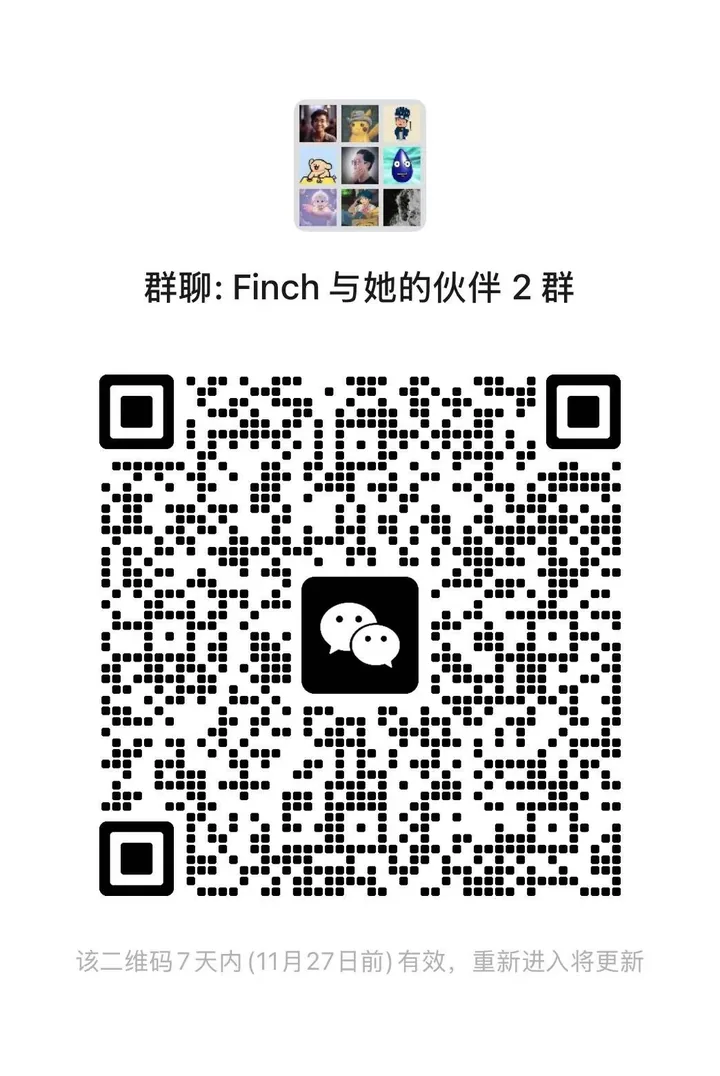
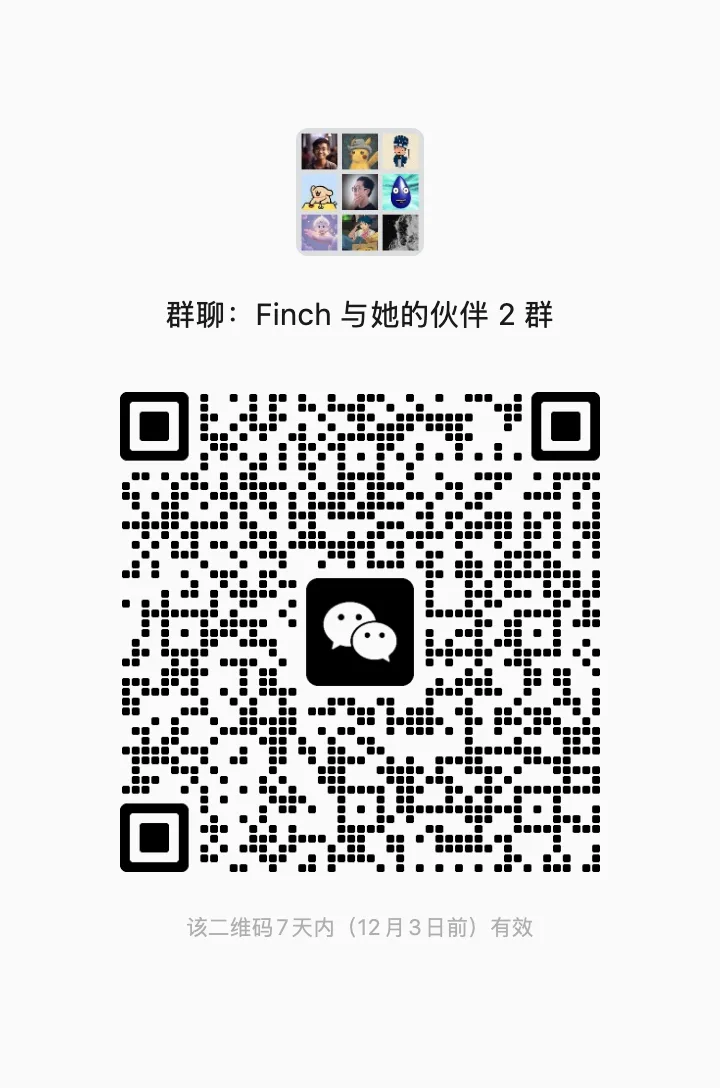
chore: 更新微信群二维码（有效期至 12 月 3 日）
- 替换 2 群群码，旧码 11-27 失效
- README 群名更正为「Finch 与她的小伙伴 2 群」，与群码内实际名称一致

diff --git a/README.md b/README.md
@@ -124,12 +124,12 @@ Finch Toolbox
 
 ## Join the community
 
-Finch has a WeChat user group, **Finch 与她的伙伴 2 群** (group 1 is full) — a
+Finch has a WeChat user group, **Finch 与她的小伙伴 2 群** (group 1 is full) — a
 Chinese-language space for questions, mini tool ideas, and bug reports. Scan the
 code with WeChat to join.
 
 <div align="center">
-  <img src="https://raw.githubusercontent.com/finchtoys/finch-releases/main/wechat-group.webp" alt="WeChat group QR code for Finch 与她的伙伴 2 群" width="240" />
+  <img src="https://raw.githubusercontent.com/finchtoys/finch-releases/main/wechat-group.webp" alt="WeChat group QR code for Finch 与她的小伙伴 2 群" width="240" />
 </div>
 
 WeChat group invitations expire after 7 days. If the code above has gone stale,

diff --git a/README.zh-CN.md b/README.zh-CN.md
@@ -120,7 +120,7 @@ Finch Toolbox
 
 ## 加入社区
 
-Finch 的微信用户群 **Finch 与她的伙伴 2 群**（1 群已满）——提问、聊小程序点子、报 bug 都可以来这里。用微信扫码加入。
+Finch 的微信用户群 **Finch 与她的小伙伴 2 群**（1 群已满）——提问、聊小程序点子、报 bug 都可以来这里。用微信扫码加入。
 
 <div align="center">
   <img src="https://raw.githubusercontent.com/finchtoys/finch-releases/main/wechat-group.webp" alt="Finch 微信用户群 2 群二维码" width="240" />
